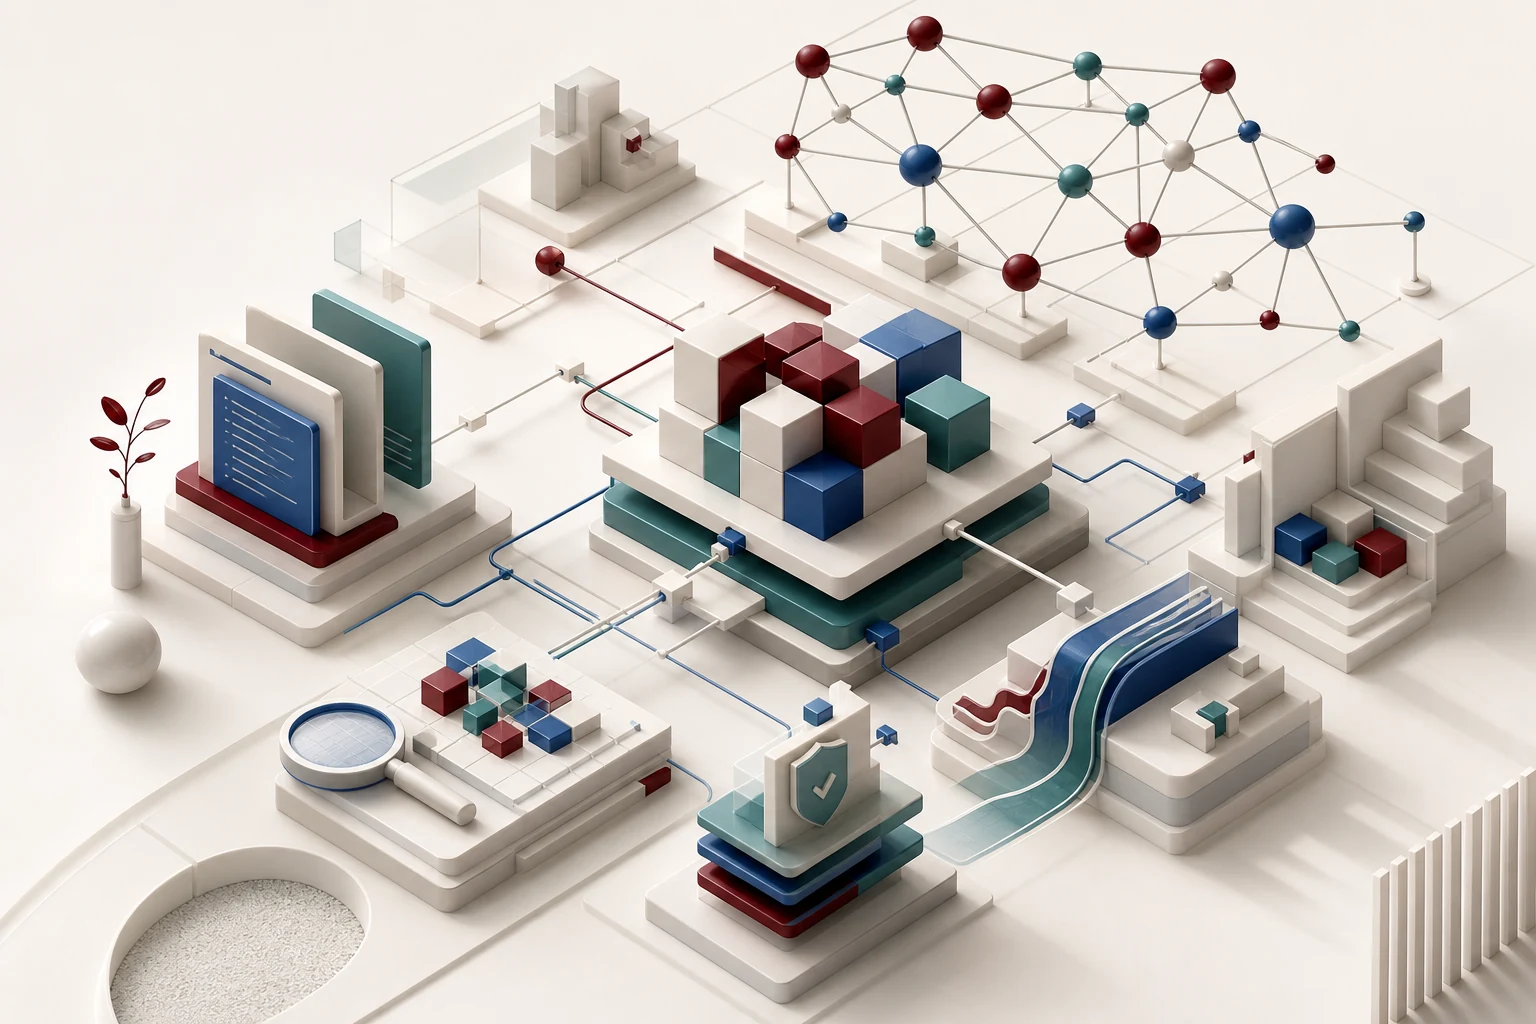
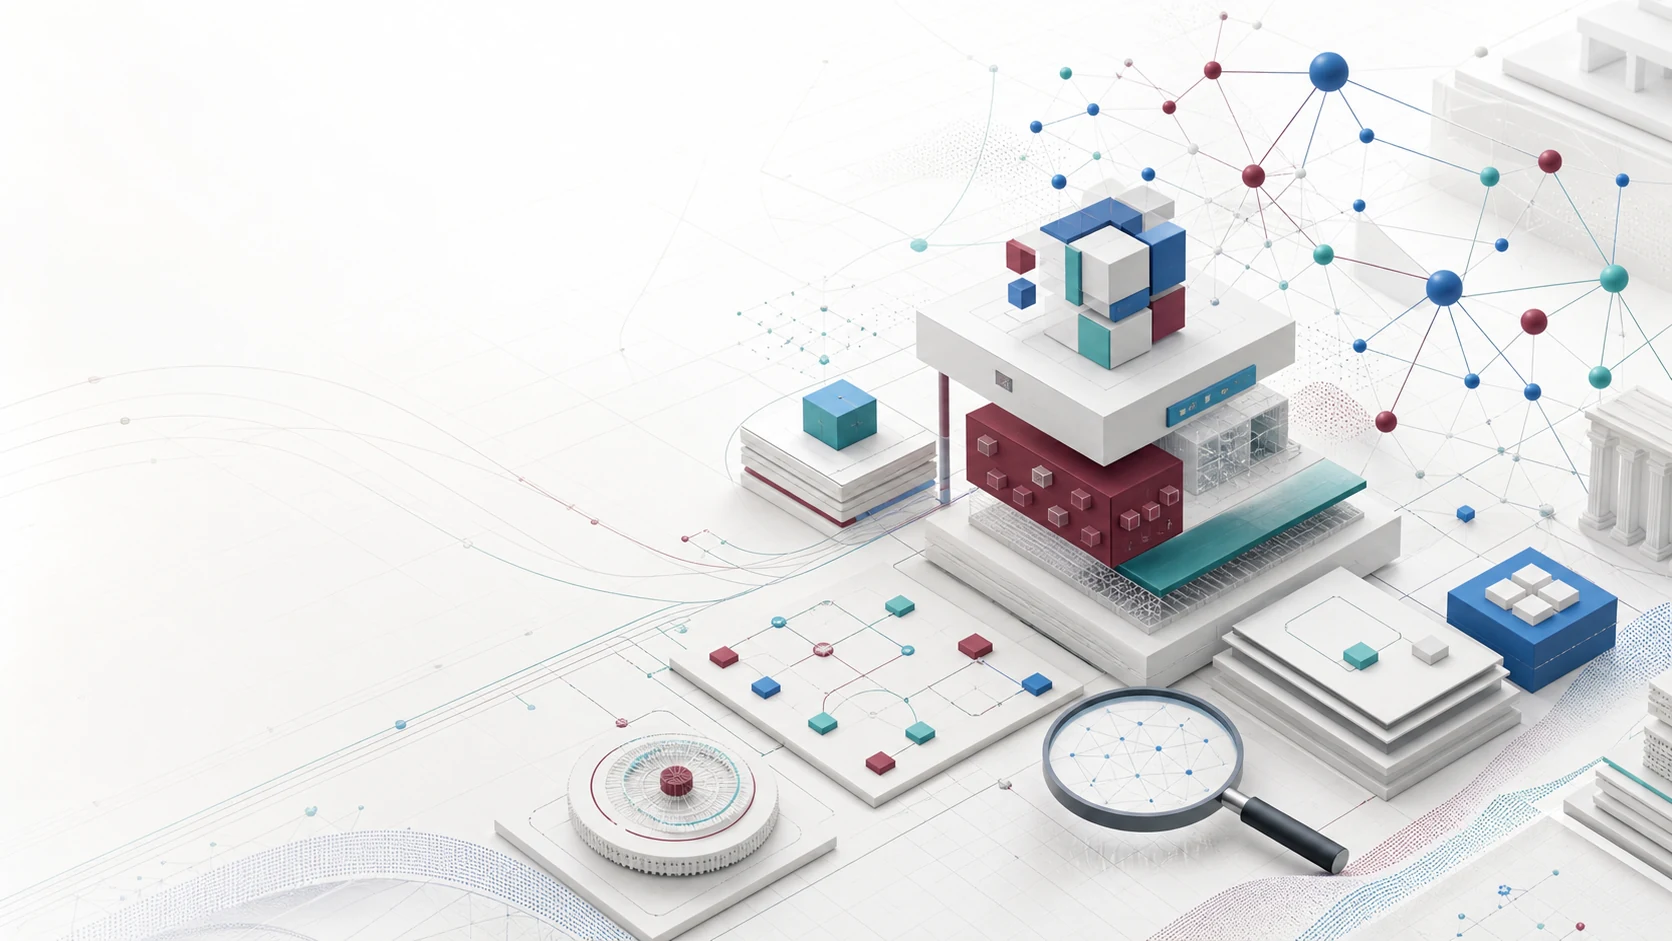
图片轮播

diff --git a/_sass/layout/_academic.scss b/_sass/layout/_academic.scss
@@ -408,16 +408,16 @@ body.nav-open {
   content: "";
   position: absolute;
   top: 0;
-  right: 0;
+  right: -2%;
   bottom: 0;
-  width: 50vw;
-  max-width: 40rem;
+  left: -2%;
+  z-index: 0;
   background-image: var(--home-hero-image);
   background-repeat: no-repeat;
-  background-position: center 22%;
-  background-size: 100% auto;
-  mix-blend-mode: multiply;
-  opacity: 0.88;
+  background-position: center center;
+  background-size: cover;
+  mix-blend-mode: normal;
+  opacity: 0.96;
   transform: translate3d(var(--hero-shift-x, 0px), var(--hero-shift-y, 0px), 0) scale(1.02);
   transition: transform 700ms cubic-bezier(0.22, 1, 0.36, 1), filter 800ms ease;
   will-change: transform;
@@ -432,8 +432,8 @@ body.nav-open {
 }
 
 .home-hero__content {
-  width: 54%;
-  max-width: 39rem;
+  width: 46%;
+  max-width: 37rem;
 }
 
 .home-kicker {
@@ -570,8 +570,8 @@ body.nav-open {
 .home-leaders {
   display: grid;
   grid-template-columns: repeat(2, minmax(0, 1fr));
-  gap: 0.8rem;
-  margin-top: 2rem;
+  gap: 0.95rem;
+  margin-top: 1.65rem;
 }
 
 .home-leader {
@@ -580,10 +580,11 @@ body.nav-open {
   --card-lift: 0px;
   min-width: 0;
   display: grid;
-  grid-template-columns: 54px minmax(0, 1fr) auto;
+  grid-template-columns: 64px minmax(0, 1fr) auto;
   align-items: center;
-  gap: 0.65rem;
-  padding: 0.65rem;
+  gap: 0.75rem;
+  min-height: 5.2rem;
+  padding: 0.75rem;
   color: var(--lab-ink);
   background: #fff;
   border: 1px solid var(--lab-line);
@@ -601,8 +602,8 @@ body.nav-open {
 }
 
 .home-leader img {
-  width: 54px;
-  height: 54px;
+  width: 64px;
+  height: 64px;
   object-fit: cover;
   object-position: center 18%;
   border-radius: 5px;
@@ -651,6 +652,115 @@ body.nav-open {
   aspect-ratio: 8 / 5;
   border-radius: 7px;
   box-shadow: 0 18px 44px rgba(23, 33, 43, 0.14);
+}
+
+.home-team__visual {
+  display: flex;
+  flex-direction: column;
+  align-items: flex-end;
+  gap: 1.25rem;
+}
+
+.home-team__photo-stack {
+  position: relative;
+  width: min(100%, 35rem);
+  aspect-ratio: 8 / 5;
+  isolation: isolate;
+}
+
+.home-team__photo-stack::before,
+.home-team__photo-stack::after {
+  content: "";
+  position: absolute;
+  inset: 0.4rem 0.35rem 0.2rem;
+  z-index: 0;
+  border: 1px solid var(--lab-line);
+  border-radius: 7px;
+  background: #fff;
+  box-shadow: 0 12px 24px rgba(23, 33, 43, 0.08);
+}
+
+.home-team__photo-stack::before {
+  transform: translate3d(-0.45rem, 0.28rem, 0) rotate(-2.2deg);
+}
+
+.home-team__photo-stack::after {
+  transform: translate3d(0.42rem, -0.18rem, 0) rotate(1.6deg);
+}
+
+.home-team__photo-stack__slides {
+  position: absolute;
+  inset: 0;
+  z-index: 1;
+}
+
+.home-team__photo-slide {
+  position: absolute;
+  inset: 0;
+  margin: 0;
+  overflow: hidden;
+  border: 1px solid var(--lab-line);
+  border-radius: 7px;
+  background: #fff;
+  box-shadow: 0 18px 44px rgba(23, 33, 43, 0.14);
+  opacity: 0;
+  pointer-events: none;
+  transform: translate3d(1.35rem, -0.45rem, 0) rotate(2.5deg) scale(0.97);
+  transition: opacity 520ms ease, transform 700ms cubic-bezier(0.22, 1, 0.36, 1);
+}
+
+.home-team__photo-slide.is-active {
+  z-index: 3;
+  opacity: 1;
+  pointer-events: auto;
+  transform: translate3d(0, 0, 0) rotate(0) scale(1);
+}
+
+.home-team__photo-slide.is-next {
+  z-index: 2;
+  opacity: 0.64;
+  transform: translate3d(0.65rem, -0.34rem, 0) rotate(2deg) scale(0.985);
+}
+
+.home-team__photo-slide.is-previous {
+  z-index: 1;
+  opacity: 0.42;
+  transform: translate3d(-0.62rem, 0.35rem, 0) rotate(-2deg) scale(0.98);
+}
+
+.home-team__photo-slide img {
+  width: 100%;
+  height: 100%;
+  display: block;
+  object-fit: cover;
+}
+
+.home-team__photo-stack__controls {
+  position: absolute;
+  right: 0.85rem;
+  bottom: 0.85rem;
+  z-index: 5;
+  display: flex;
+  align-items: center;
+  gap: 0.3rem;
+  padding: 0.32rem 0.42rem;
+  border-radius: 999px;
+  background: rgba(255, 255, 255, 0.88);
+  box-shadow: 0 4px 12px rgba(23, 33, 43, 0.1);
+}
+
+.home-team__photo-stack__controls button {
+  width: 0.42rem;
+  height: 0.42rem;
+  padding: 0;
+  border: 0;
+  border-radius: 999px;
+  background: #b9c5ce;
+}
+
+.home-team__photo-stack__controls button[aria-selected="true"] {
+  width: 1.05rem;
+  background: var(--lab-wine);
 }
 
 .home-team__photo {
@@ -2059,11 +2169,11 @@ body.nav-open {
   }
 
   .home-hero::after {
-    right: -5rem;
-    width: 23rem;
-    background-position: center 12%;
-    background-size: 100% auto;
-    opacity: 0.14;
+    right: 0;
+    left: 0;
+    background-position: 76% center;
+    background-size: auto 100%;
+    opacity: 0.18;
   }
 
   .home-hero__inner {

diff --git a/assets/js/site.js b/assets/js/site.js
@@ -122,6 +122,69 @@
 
   initPublicationYearFilter();
 
+  function initPhotoStacks() {
+    document.querySelectorAll('[data-photo-stack]').forEach(function (stack) {
+      var slides = Array.from(stack.querySelectorAll('[data-photo-slide]'));
+      var controls = Array.from(stack.querySelectorAll('[data-photo-slide-button]'));
+      if (slides.length < 2) return;
+
+      var activeIndex = 0;
+      var interval = Number(stack.dataset.interval) || 5200;
+      var timer = null;
+
+      function showSlide(index) {
+        activeIndex = (index + slides.length) % slides.length;
+
+        slides.forEach(function (slide, slideIndex) {
+          var isActive = slideIndex === activeIndex;
+          var isNext = slideIndex === (activeIndex + 1) % slides.length;
+          var isPrevious = slideIndex === (activeIndex - 1 + slides.length) % slides.length;
+          slide.classList.toggle('is-active', isActive);
+          slide.classList.toggle('is-next', isNext);
+          slide.classList.toggle('is-previous', isPrevious);
+          slide.setAttribute('aria-hidden', String(!isActive));
+        });
+
+        controls.forEach(function (control, controlIndex) {
+          control.setAttribute('aria-selected', String(controlIndex === activeIndex));
+        });
+      }
+
+      function stop() {
+        if (!timer) return;
+        window.clearInterval(timer);
+        timer = null;
+      }
+
+      function start() {
+        if (reduceMotion) return;
+        stop();
+        timer = window.setInterval(function () {
+          showSlide(activeIndex + 1);
+        }, interval);
+      }
+
+      controls.forEach(function (control) {
+        control.addEventListener('click', function () {
+          showSlide(Number(control.dataset.photoSlideButton));
+          start();
+        });
+      });
+
+      stack.addEventListener('mouseenter', stop);
+      stack.addEventListener('mouseleave', start);
+      stack.addEventListener('focusin', stop);
+      stack.addEventListener('focusout', function () {
+        if (!stack.contains(document.activeElement)) start();
+      });
+
+      showSlide(0);
+      start();
+    });
+  }
+
+  initPhotoStacks();
+
   var scrollFrame = 0;
   var pointerX = 0;
   var pointerY = 0;

diff --git a/index.md b/index.md
@@ -72,8 +72,30 @@ permalink: /
         {% assign team_photo = site.static_files | where: "path", "/images/home/team-group.webp" | first %}
         {% unless team_photo %}{% assign team_photo = site.static_files | where: "path", "/images/home/team-group.jpg" | first %}{% endunless %}
         {% unless team_photo %}{% assign team_photo = site.static_files | where: "path", "/images/home/team-group.png" | first %}{% endunless %}
-        {% if team_photo %}
-          <img class="home-team__photo" src="{{ base_path }}{{ team_photo.path }}" alt="软件复用研究组团队合影">
+        {% assign team_gallery = site.static_files | where_exp: "item", "item.path contains '/images/home/team-gallery/'" | sort: "path" %}
+        {% if team_gallery.size > 0 or team_photo %}
+          <div class="home-team__photo-stack" data-photo-stack data-interval="5200" aria-label="团队活动照片">
+            <div class="home-team__photo-stack__slides">
+              {% if team_gallery.size > 0 %}
+                {% for photo in team_gallery %}
+                  <figure class="home-team__photo-slide{% if forloop.first %} is-active{% elsif forloop.index == 2 %} is-next{% endif %}" data-photo-slide data-photo-slide-index="{{ forloop.index0 }}" aria-hidden="{% unless forloop.first %}true{% else %}false{% endunless %}">
+                    <img src="{{ base_path }}{{ photo.path }}" alt="软件复用研究组团队活动照片 {{ forloop.index }}">
+                  </figure>
+                {% endfor %}
+              {% else %}
+                <figure class="home-team__photo-slide is-active" data-photo-slide data-photo-slide-index="0" aria-hidden="false">
+                  <img src="{{ base_path }}{{ team_photo.path }}" alt="软件复用研究组团队合影">
+                </figure>
+              {% endif %}
+            </div>
+            {% if team_gallery.size > 1 %}
+              <div class="home-team__photo-stack__controls" role="tablist" aria-label="团队活动照片切换">
+                {% for photo in team_gallery %}
+                  <button type="button" data-photo-slide-button="{{ forloop.index0 }}" role="tab" aria-label="查看第 {{ forloop.index }} 张团队照片" aria-selected="{% if forloop.first %}true{% else %}false{% endif %}"></button>
+                {% endfor %}
+              </div>
+            {% endif %}
+          </div>
         {% else %}
           <div class="home-member-collage" aria-label="课题组成员照片">
             {% assign displayed_members = 0 %}

diff --git a/images/home/README.md b/images/home/README.md
@@ -4,6 +4,7 @@
 
 - `hero.webp`：首页首屏主视觉，建议 1920 x 1200 或更大，主体位于画面右侧。
 - `team-group.webp`：团队合影，建议 1600 x 1000，横向构图。
+- `team-gallery/`：团队活动照片轮播目录。将更多 `.webp`、`.jpg` 或 `.png` 放入此目录，页面会按文件名排序自动叠放轮播；建议每张 1200 x 900 或更大。
 - `featx.webp`：FeatX 项目界面，建议 1200 x 750。
 - `flowgen.webp`：FlowGen 项目界面，建议 1200 x 750。
 - `knowledge-graph.webp`：软件知识图谱或系统界面，建议 1200 x 750。

diff --git a/_people/Xiong-Bo.md b/_people/Xiong-Bo.md
@@ -14,3 +14,4 @@ author_profile: true
 
 
 
+
